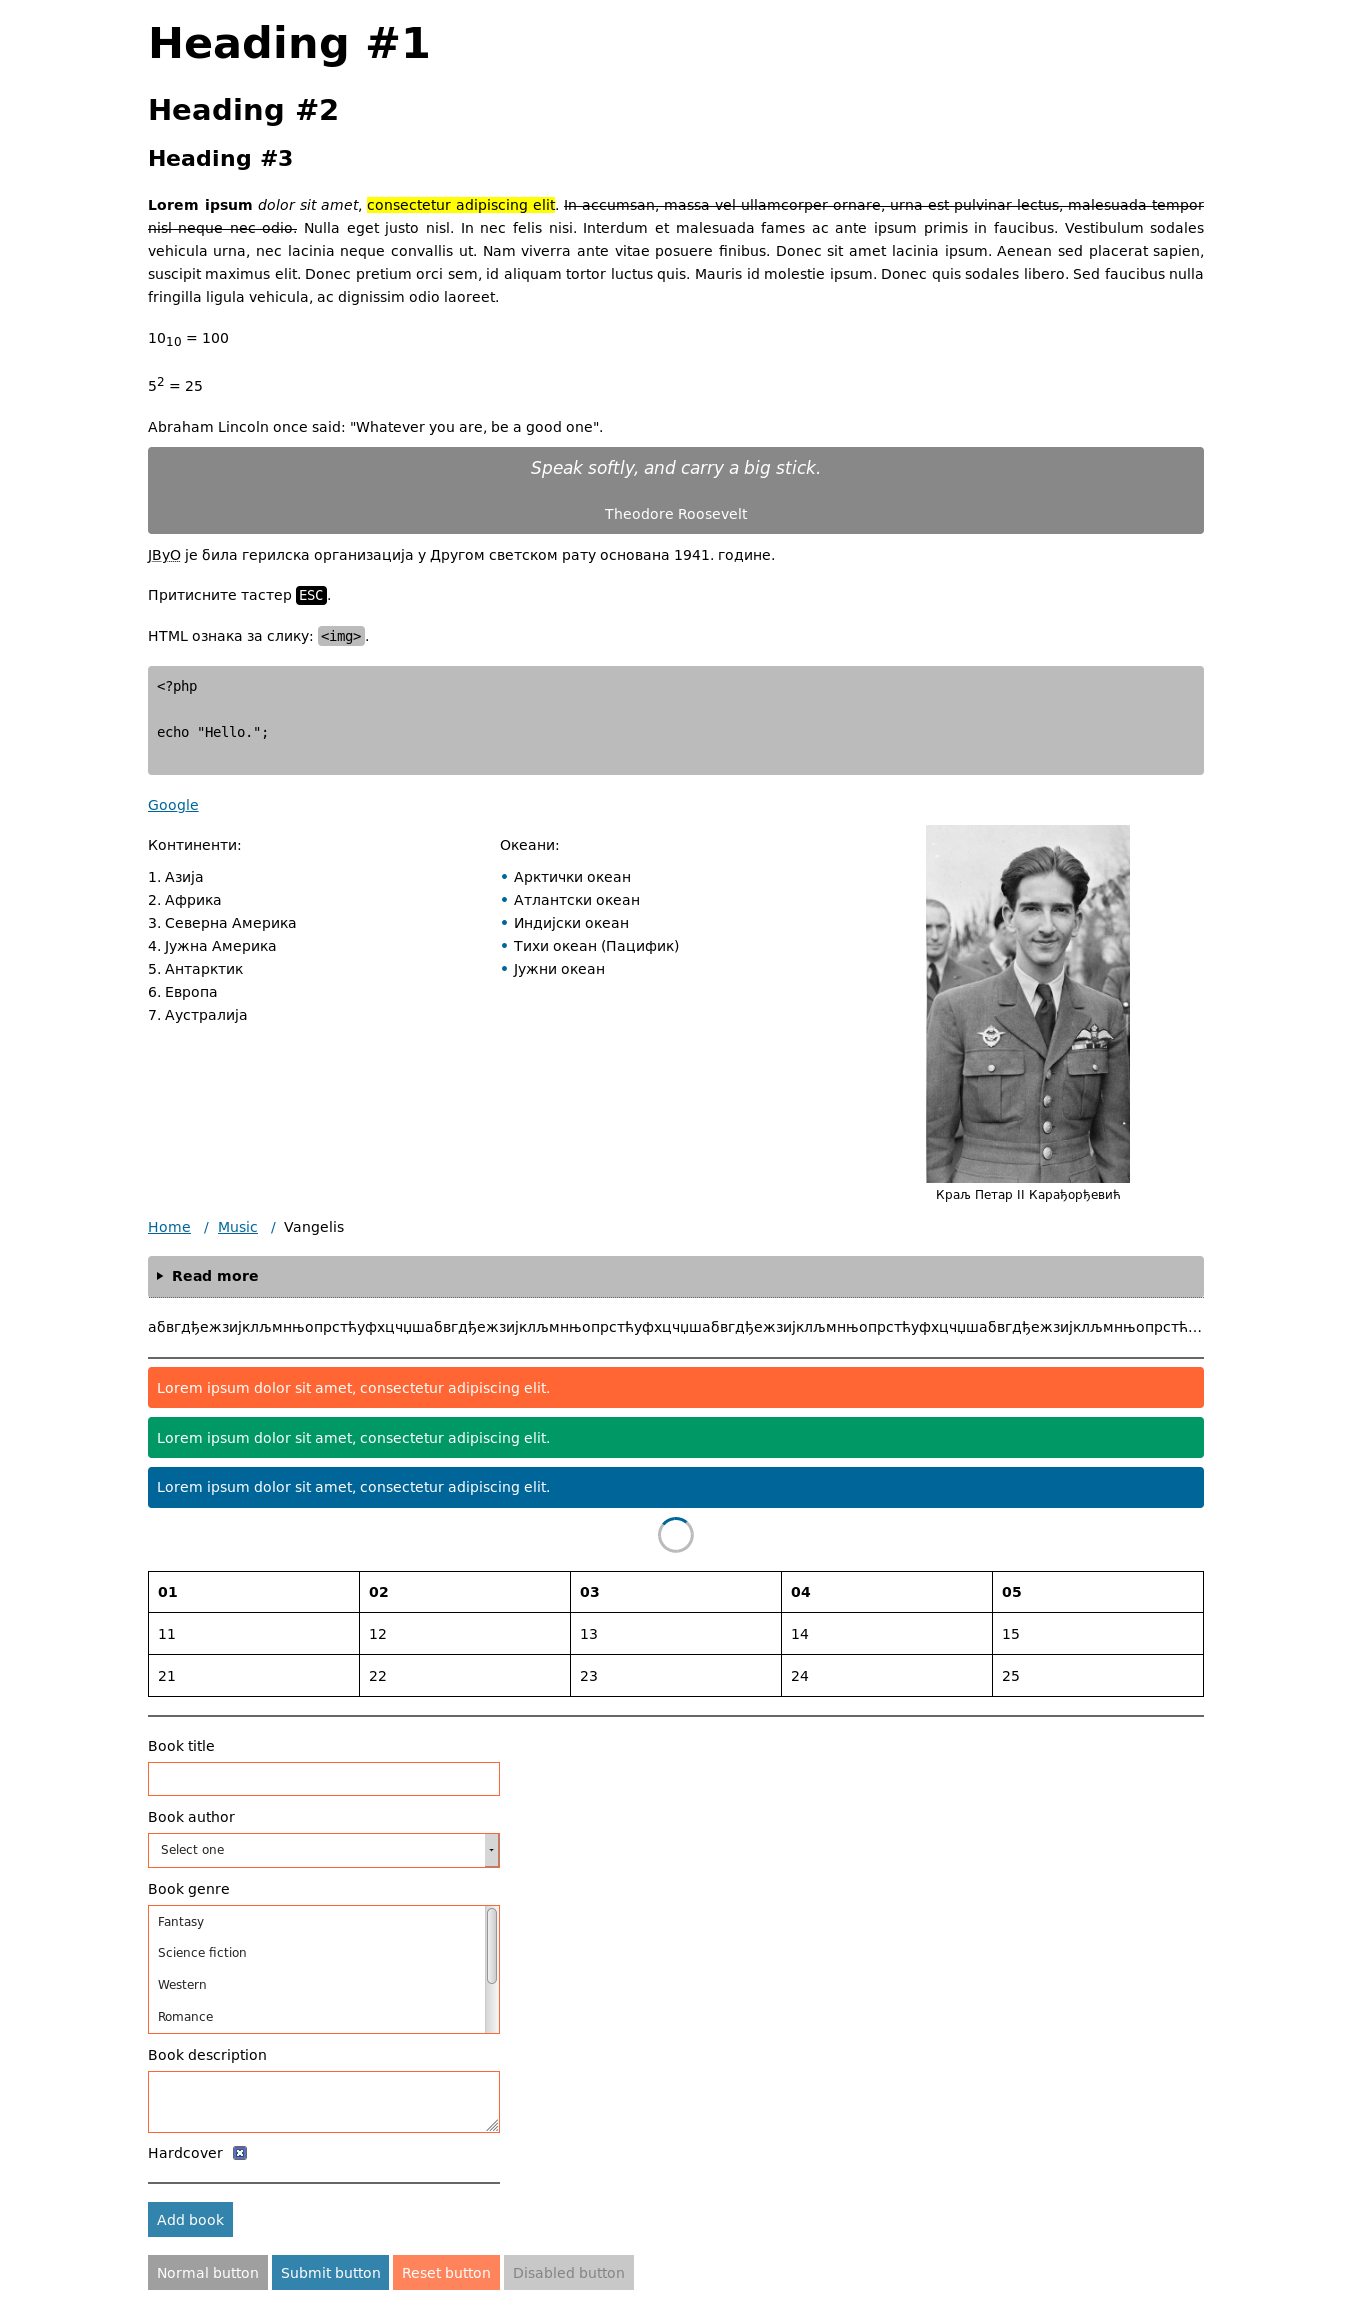
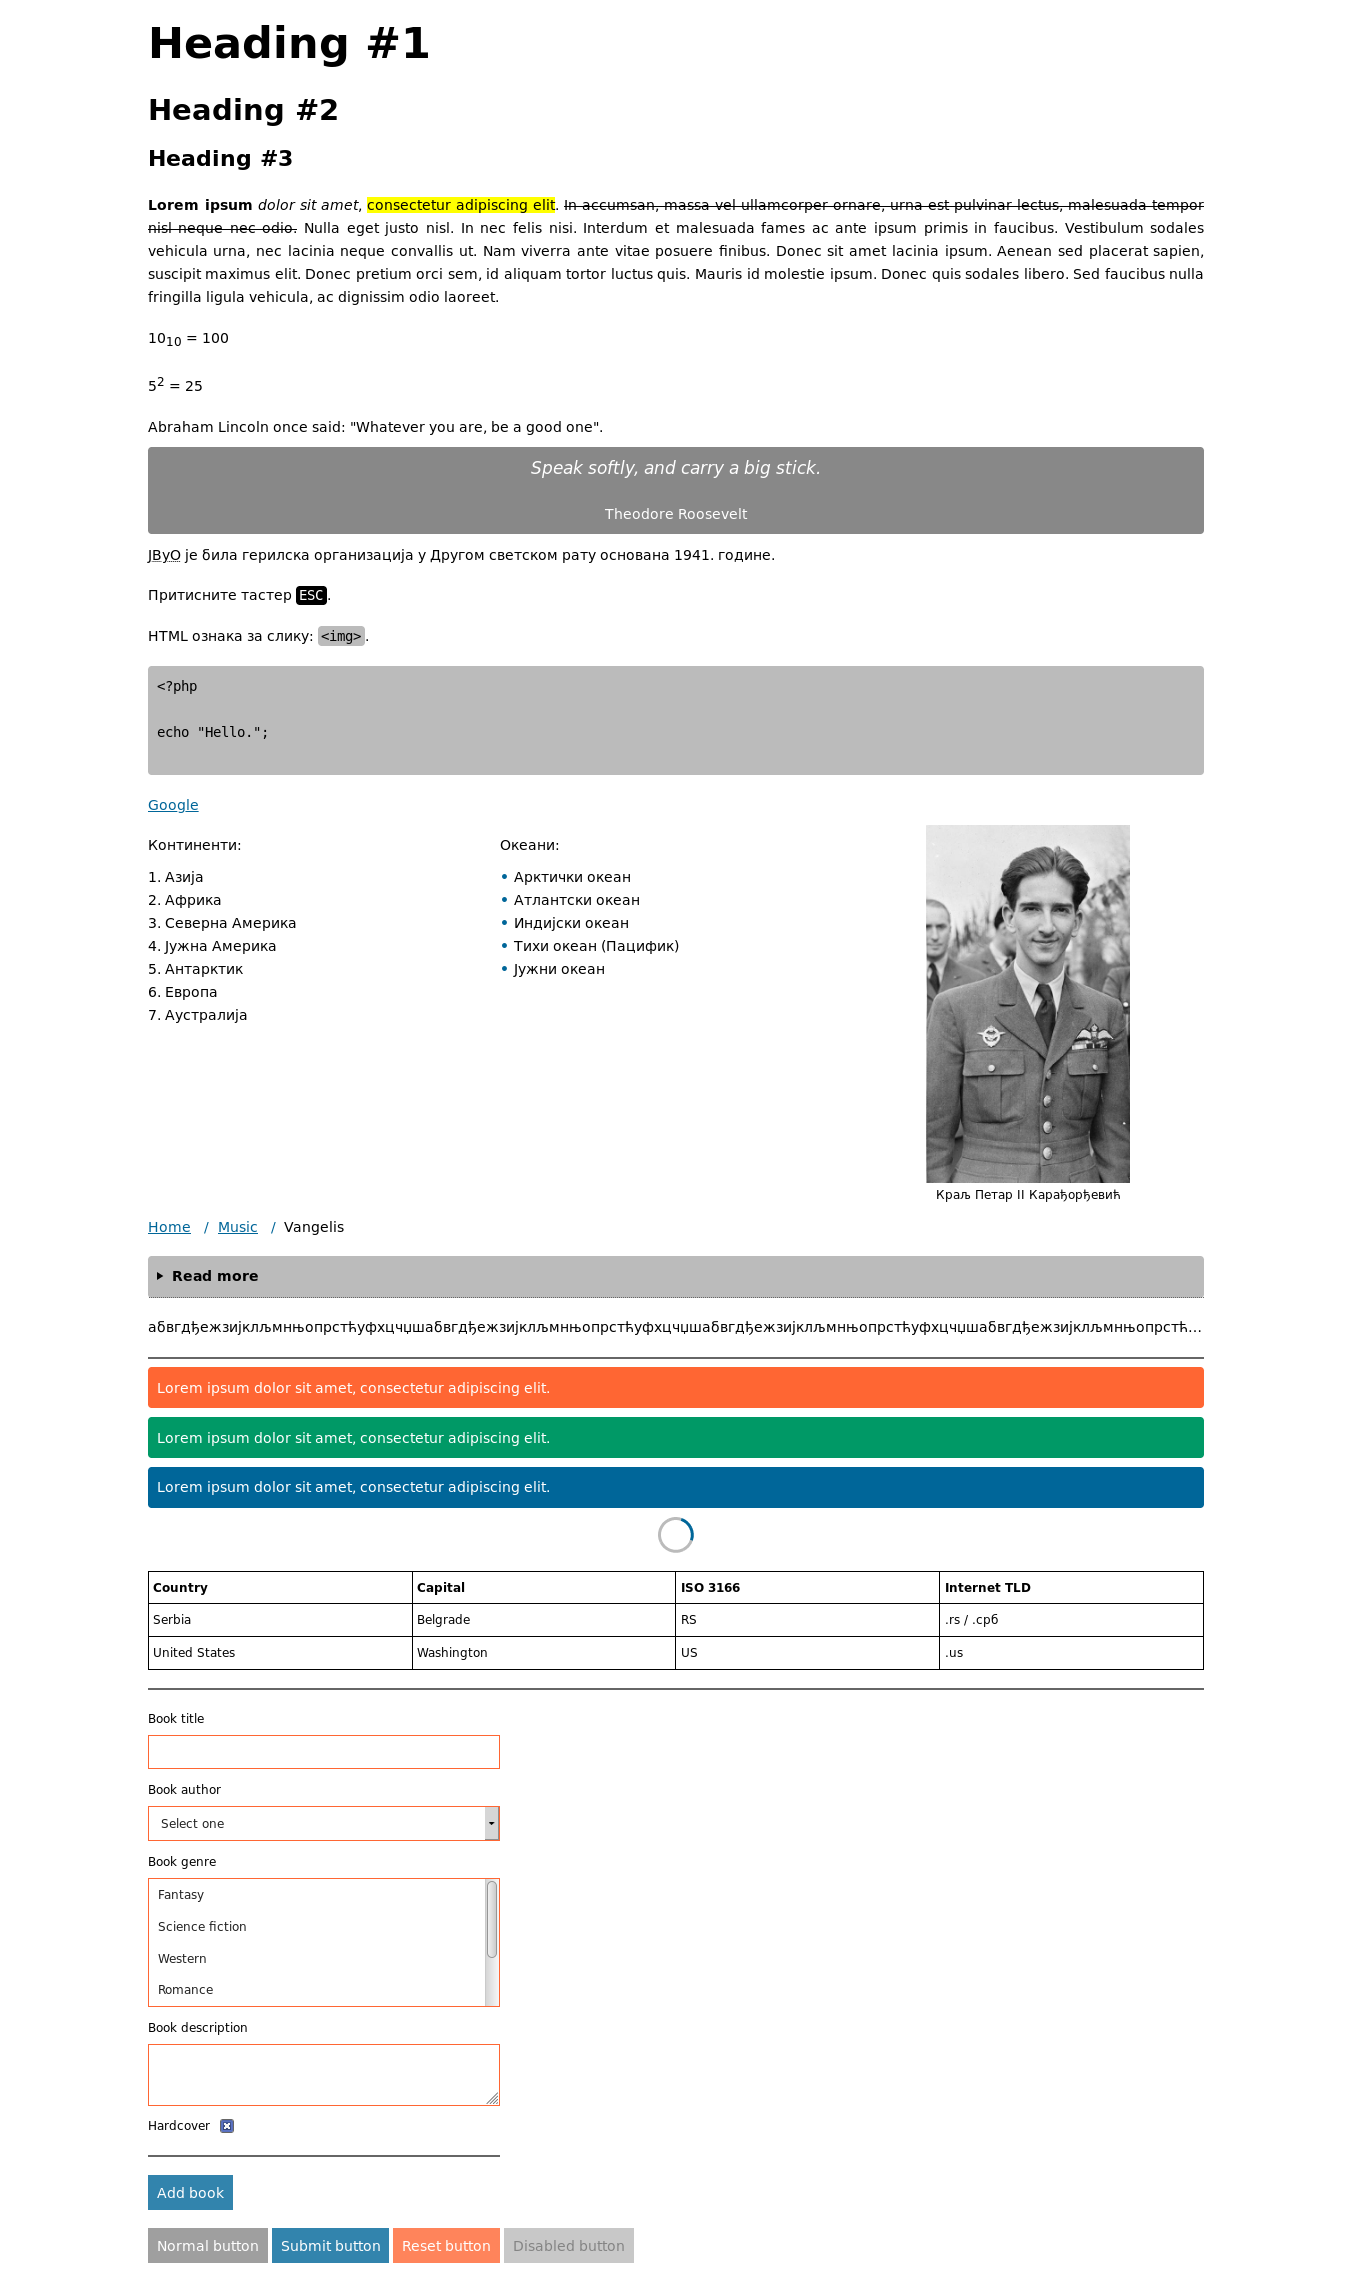
Set minimal table width

diff --git a/css/minimalizr.css b/css/minimalizr.css
@@ -1,1 +1,1 @@
-*{box-sizing:border-box;margin:0;outline:none;padding:0}*:focus{outline:1px dotted #888;outline-offset:3px}html{scroll-behavior:smooth}body{font-family:sans-serif;font-size:1rem;line-height:1.6rem;word-wrap:break-word}::selection{background-color:#069;color:#fff}button{font-size:1rem}.container{width:1200px;max-width:100%;margin:0 auto;padding:0 10px}.container-fluid{width:100%}.row{display:grid;grid-template-columns:repeat(12, 1fr)}.col-md-1{grid-column:span 1}.col-md-2{grid-column:span 2}.col-md-3{grid-column:span 3}.col-md-4{grid-column:span 4}.col-md-5{grid-column:span 5}.col-md-6{grid-column:span 6}.col-md-7{grid-column:span 7}.col-md-8{grid-column:span 8}.col-md-9{grid-column:span 9}.col-md-10{grid-column:span 10}.col-md-11{grid-column:span 11}.col-md-12{grid-column:span 12}@media screen and (max-width: 768px){.col-sm-1{grid-column:span 1}.col-sm-2{grid-column:span 2}.col-sm-3{grid-column:span 3}.col-sm-4{grid-column:span 4}.col-sm-5{grid-column:span 5}.col-sm-6{grid-column:span 6}.col-sm-7{grid-column:span 7}.col-sm-8{grid-column:span 8}.col-sm-9{grid-column:span 9}.col-sm-10{grid-column:span 10}.col-sm-11{grid-column:span 11}.col-sm-12{grid-column:span 12}}.text-white{color:#fff}.text-red{color:#f63}.text-green{color:#096}.text-blue{color:#069}.text-cyan{color:#099}.text-yellow{color:#ff0}.text-magenta{color:#9f4576}.text-gray{color:#888}.text-light-gray{color:#bbb}.text-dark-gray{color:#666}.text-black{color:#000}.bg-white{background-color:#fff}.bg-red{background-color:#f63}.bg-green{background-color:#096}.bg-blue{background-color:#069}.bg-cyan{background-color:#099}.bg-yellow{background-color:#ff0}.bg-magenta{background-color:#9f4576}.bg-gray{background-color:#888}.bg-light-gray{background-color:#bbb}.bg-dark-gray{background-color:#666}.bg-black{background-color:#000}.hide{display:none}.bordered{border:1px solid #888}.padded{padding:10px}.rounded{border-radius:4px}.rounded-circle{border-radius:50%}.underline{text-decoration:underline}.larger{font-size:larger}.smaller{font-size:smaller}.text-left{text-align:left}.text-center{text-align:center}.text-right{text-align:right}.text-justify{text-align:justify}.centered{display:flex;justify-content:center;align-items:center}.truncate{white-space:nowrap;overflow:hidden;text-overflow:ellipsis}@media screen and (max-width: 768px){.hide-on-sm{display:none}}h1,h2,h3{margin:10px 0}h1{font-size:3rem;line-height:4.8rem}h2{font-size:2rem;line-height:3.2rem}h3{font-size:1.5rem;line-height:2.4rem}p{padding:10px 0;text-align:justify}a{color:#069;text-decoration:underline}a:active,a:visited{color:#9f4576}a:hover{text-decoration:none}a:not([href]){color:#000;text-decoration:none}strong{font-weight:bold}em{font-style:italic}mark{background-color:#ff0}del{text-decoration:line-through}sub{font-size:smaller;vertical-align:sub}sup{font-size:smaller;vertical-align:super}q::before{content:'"'}q::after{content:'"'}blockquote{padding:10px 0;font-style:italic}blockquote footer{font-style:normal}hr{border:2px solid #666;margin:10px 0}cite{font-style:italic}abbr[title]{text-decoration:underline dotted}pre.code,code,kbd{padding:2px 4px;border-radius:4px;font-family:monospace}kbd{background-color:#000;color:#fff}code{background-color:#bbb}pre.code{background-color:#bbb;margin:10px 0;overflow-x:auto;padding:10px;user-select:all;tab-size:2;-moz-tab-size:2}ul,ol{list-style-position:inside}img{max-width:100%;vertical-align:middle}figure{display:inline-block}figure figcaption{font-size:smaller;text-align:center}footer{font-size:smaller}details{background-color:#bbb;border-radius:4px;margin:10px 0}details summary{border-bottom:1px dotted #666;cursor:pointer;font-weight:bold;padding:10px;user-select:none}details div{margin-left:10px;padding:10px}.table-responsive{overflow-x:auto}table{border-collapse:collapse;margin:10px 0;table-layout:fixed;width:100%}table,table th,table td{border:1px solid #000}table th{font-weight:bold}table th,table td{padding:10px;text-align:left}form{display:grid;grid-template-columns:1fr;grid-gap:10px;margin:10px 0}form>label{display:flex;flex-direction:column;align-items:flex-start}form>label span{user-select:none;margin-bottom:5px}form>label input,form>label textarea,form>label select,form>label button{font-size:smaller}form>label input,form>label textarea,form>label select{background-color:#fff;border:1px solid #bbb;font-family:sans-serif;padding:10px;width:100%}form>label input:focus,form>label textarea:focus,form>label select:focus{border-color:#666;outline:none}form>label input:disabled,form>label textarea:disabled,form>label select:disabled{background-color:#bbb}form>label input:invalid,form>label textarea:invalid,form>label select:invalid{border-color:#f63}form>label select[multiple]{max-height:200px;padding:0}form>label select[multiple] option{padding:10px}form>label textarea{min-height:50px;max-height:200px;resize:vertical}form .form-checkbox{display:flex;flex-direction:row;align-items:center;flex-wrap:wrap;width:fit-content;width:-moz-fit-content}form .form-checkbox label{cursor:pointer;display:flex;align-items:center;user-select:none}form .form-checkbox input[type=checkbox]{cursor:pointer;align-self:center;width:auto;margin-left:10px}form button{width:fit-content;width:-moz-fit-content}button{background-color:#888;border:0;color:#fff;cursor:pointer;padding:10px;user-select:none;opacity:.8;transition-property:opacity;transition-duration:.3s;transition-timing-function:ease-in-out}button[type=submit]{background-color:#069;color:#fff}button[type=reset]{background-color:#f63;color:#fff}button[disabled]{background-color:#bbb;color:#666;cursor:not-allowed}button:hover{opacity:1}button:active{transform:translateY(1px);outline:none}ul.breadcrumbs{display:flex;list-style-type:none;user-select:none}ul.breadcrumbs li{padding:10px 0}ul.breadcrumbs li:not(:last-child)::after{content:" / ";color:#069;display:inline-block;margin:0 10px}ul.breadcrumbs li:last-child{color:inherit;text-decoration:none}@keyframes spin{from{transform:rotate(0deg)}to{transform:rotate(360deg)}}.spinner{border:4px solid #bbb;border-top:4px solid #069;border-radius:50%;height:40px;width:40px;animation-name:spin;animation-duration:1s;animation-timing-function:linear;animation-iteration-count:infinite;margin:10px auto}@keyframes fade-in{from{opacity:0}to{opacity:1}}.fade-in{animation-name:fade-in;animation-duration:1s;animation-timing-function:ease-out;animation-iteration-count:1}.list-bulleted{list-style-type:none}.list-bulleted li:before{content:"•";color:#069;display:inline-block;font-weight:bold;width:1em}/*# sourceMappingURL=minimalizr.css.map */
+*{box-sizing:border-box;margin:0;outline:none;padding:0}*:focus{outline:1px dotted #888;outline-offset:3px}html{scroll-behavior:smooth}body{font-family:sans-serif;font-size:1rem;line-height:1.6rem;word-wrap:break-word}::selection{background-color:#069;color:#fff}button{font-size:1rem}.container{width:1200px;max-width:100%;margin:0 auto;padding:0 10px}.container-fluid{width:100%}.row{display:grid;grid-template-columns:repeat(12, 1fr)}.col-md-1{grid-column:span 1}.col-md-2{grid-column:span 2}.col-md-3{grid-column:span 3}.col-md-4{grid-column:span 4}.col-md-5{grid-column:span 5}.col-md-6{grid-column:span 6}.col-md-7{grid-column:span 7}.col-md-8{grid-column:span 8}.col-md-9{grid-column:span 9}.col-md-10{grid-column:span 10}.col-md-11{grid-column:span 11}.col-md-12{grid-column:span 12}.col-pull-left{grid-column-start:1}.col-pull-right{grid-column-end:12}@media screen and (max-width: 768px){.col-sm-1{grid-column:span 1}.col-sm-2{grid-column:span 2}.col-sm-3{grid-column:span 3}.col-sm-4{grid-column:span 4}.col-sm-5{grid-column:span 5}.col-sm-6{grid-column:span 6}.col-sm-7{grid-column:span 7}.col-sm-8{grid-column:span 8}.col-sm-9{grid-column:span 9}.col-sm-10{grid-column:span 10}.col-sm-11{grid-column:span 11}.col-sm-12{grid-column:span 12}}.text-white{color:#fff}.text-red{color:#f63}.text-green{color:#096}.text-blue{color:#069}.text-cyan{color:#099}.text-yellow{color:#ff0}.text-magenta{color:#9f4576}.text-gray{color:#888}.text-light-gray{color:#bbb}.text-dark-gray{color:#666}.text-black{color:#000}.bg-white{background-color:#fff}.bg-red{background-color:#f63}.bg-green{background-color:#096}.bg-blue{background-color:#069}.bg-cyan{background-color:#099}.bg-yellow{background-color:#ff0}.bg-magenta{background-color:#9f4576}.bg-gray{background-color:#888}.bg-light-gray{background-color:#bbb}.bg-dark-gray{background-color:#666}.bg-black{background-color:#000}.hide{display:none}.bordered{border:1px solid #888}.padded{padding:10px}.rounded{border-radius:4px}.rounded-circle{border-radius:50%}.underline{text-decoration:underline}.larger{font-size:larger}.smaller{font-size:smaller}.text-left{text-align:left}.text-center{text-align:center}.text-right{text-align:right}.text-justify{text-align:justify}.centered{display:flex;justify-content:center;align-items:center}.truncate{white-space:nowrap;overflow:hidden;text-overflow:ellipsis}@media screen and (max-width: 768px){.hide-on-sm{display:none}}h1,h2,h3{margin:10px 0}h1{font-size:3rem;line-height:4.8rem}h2{font-size:2rem;line-height:3.2rem}h3{font-size:1.5rem;line-height:2.4rem}p{padding:10px 0;text-align:justify}a{color:#069;text-decoration:underline}a:active,a:visited{color:#9f4576}a:hover{text-decoration:none}a:not([href]){color:#000;text-decoration:none}strong{font-weight:bold}em{font-style:italic}mark{background-color:#ff0}del{text-decoration:line-through}sub{font-size:smaller;vertical-align:sub}sup{font-size:smaller;vertical-align:super}q::before{content:'"'}q::after{content:'"'}blockquote{padding:10px 0;font-style:italic}blockquote footer{font-style:normal}hr{border:2px solid #666;margin:10px 0}cite{font-style:italic}abbr[title]{text-decoration:underline dotted}pre.code,code,kbd{padding:2px 4px;border-radius:4px;font-family:monospace}kbd{background-color:#000;color:#fff}code{background-color:#bbb}pre.code{background-color:#bbb;margin:10px 0;overflow-x:auto;padding:10px;user-select:all;tab-size:2;-moz-tab-size:2}ul,ol{list-style-position:inside}img{max-width:100%;vertical-align:middle}figure{display:inline-block}figure figcaption{font-size:smaller;text-align:center}footer{font-size:smaller}details{background-color:#bbb;border-radius:4px;margin:10px 0}details summary{border-bottom:1px dotted #666;cursor:pointer;font-weight:bold;padding:10px;user-select:none}details div{margin-left:10px;padding:10px}.table-responsive{overflow-x:auto}table{font-size:smaller;border-collapse:collapse;margin:10px 0;table-layout:fixed;width:100%;min-width:500px}table,table th,table td{border:1px solid #000}table th{font-weight:bold}table th,table td{padding:5px;text-align:left;white-space:nowrap;overflow-x:hidden;text-overflow:ellipsis}form{display:grid;grid-template-columns:1fr;grid-gap:10px;margin:10px 0}form>label{display:flex;flex-direction:column;align-items:flex-start}form>label span{user-select:none;margin-bottom:5px;font-size:smaller}form>label input,form>label textarea,form>label select,form>label button{font-size:smaller}form>label input,form>label textarea,form>label select{background-color:#fff;border:1px solid #bbb;font-family:sans-serif;padding:10px;width:100%}form>label input:disabled,form>label textarea:disabled,form>label select:disabled{background-color:#bbb}form>label input:invalid,form>label textarea:invalid,form>label select:invalid{border-color:#f63}form>label input:focus,form>label textarea:focus,form>label select:focus{border-color:#666;outline:none}form>label select[multiple]{max-height:200px;padding:0}form>label select[multiple] option{padding:10px}form>label textarea{min-height:50px;max-height:200px;resize:vertical}form .form-checkbox{display:flex;flex-direction:row;align-items:center;flex-wrap:wrap;width:fit-content;width:-moz-fit-content}form .form-checkbox label{cursor:pointer;display:flex;align-items:center;user-select:none;font-size:smaller}form .form-checkbox input[type=checkbox]{cursor:pointer;align-self:center;width:auto;margin-left:10px}form button{width:fit-content;width:-moz-fit-content}button{background-color:#888;border:0;color:#fff;cursor:pointer;padding:10px;user-select:none;opacity:.8;transition-property:opacity;transition-duration:.3s;transition-timing-function:ease-in-out}button[type=submit]{background-color:#069;color:#fff}button[type=reset]{background-color:#f63;color:#fff}button[disabled]{background-color:#bbb;color:#666;cursor:not-allowed}button:hover{opacity:1}button:active{transform:translateY(1px);outline:none}ul.breadcrumbs{display:flex;list-style-type:none;user-select:none}ul.breadcrumbs li{padding:10px 0}ul.breadcrumbs li:not(:last-child)::after{content:" / ";color:#069;display:inline-block;margin:0 10px}ul.breadcrumbs li:last-child{color:inherit;text-decoration:none}@keyframes spin{from{transform:rotate(0deg)}to{transform:rotate(360deg)}}.spinner{border:4px solid #bbb;border-top:4px solid #069;border-radius:50%;height:40px;width:40px;animation-name:spin;animation-duration:1s;animation-timing-function:linear;animation-iteration-count:infinite;margin:10px auto}@keyframes fade-in{from{opacity:0}to{opacity:1}}.fade-in{animation-name:fade-in;animation-duration:1s;animation-timing-function:ease-out;animation-iteration-count:1}.list-bulleted{list-style-type:none}.list-bulleted li:before{content:"•";color:#069;display:inline-block;font-weight:bold;width:1em}/*# sourceMappingURL=minimalizr.css.map */

diff --git a/index.html b/index.html
@@ -110,27 +110,24 @@ echo "Hello.";
 			<table>
 				<thead>
 					<tr>
-						<th>01</th>
-						<th>02</th>
-						<th>03</th>
-						<th>04</th>
-						<th>05</th>
+						<th>Country</th>
+						<th>Capital</th>
+						<th>ISO 3166</th>
+						<th>Internet TLD</th>
 					</tr>
 				</thead>
 				<tbody>
 					<tr>
-						<td>11</td>
-						<td>12</td>
-						<td>13</td>
-						<td>14</td>
-						<td>15</td>
+						<td>Serbia</td>
+						<td>Belgrade</td>
+						<td>RS</td>
+						<td>.rs / .срб</td>
 					</tr>
 					<tr>
-						<td>21</td>
-						<td>22</td>
-						<td>23</td>
-						<td>24</td>
-						<td>25</td>
+						<td>United States</td>
+						<td>Washington</td>
+						<td>US</td>
+						<td>.us</td>
 					</tr>
 				</tbody>
 			</table>

diff --git a/sass/components/_form.scss b/sass/components/_form.scss
@@ -14,6 +14,7 @@ form {
 		span {
 			user-select: none;
 			margin-bottom: $spacing / 2;
+			font-size: smaller;
 		}
 
 		input, textarea, select, button {
@@ -27,17 +28,17 @@ form {
 			padding: $form-padding;
 			width: 100%;
 
-			&:focus {
-				border-color: map-get($colors, 'dark-gray');
-				outline: none;
-			}
-
 			&:disabled {
 				background-color: map-get($colors, 'light-gray');
 			}
 
 			&:invalid {
 				border-color: map-get($colors, 'red');
+			}
+
+			&:focus {
+				border-color: map-get($colors, 'dark-gray');
+				outline: none;
 			}
 		}
 
@@ -70,6 +71,7 @@ form {
 			display: flex;
 			align-items: center;
 			user-select: none;
+			font-size: smaller;
 		}
 
 		input[type="checkbox"] {

diff --git a/sass/components/_tables.scss b/sass/components/_tables.scss
@@ -3,10 +3,12 @@
 }
 
 table {
+	font-size: smaller;
 	border-collapse: collapse;
 	margin: $spacing 0;
 	table-layout: fixed;
 	width: 100%;
+	min-width: 500px;
 
 	&, th, td {
 		border: 1px solid map-get($colors, 'black');
@@ -17,7 +19,10 @@ table {
 	}
 
 	th, td {
-		padding: $spacing;
+		padding: 5px;
 		text-align: left;
+		white-space: nowrap;
+		overflow-x: hidden;
+		text-overflow: ellipsis;
 	}
 }

diff --git a/sass/_layout.scss b/sass/_layout.scss
@@ -26,6 +26,10 @@ $columns: 12;
 
 @include columns-generator($columns);
 
+.col-pull-left { grid-column-start: 1; }
+
+.col-pull-right { grid-column-end: $columns; }
+
 @media screen and (max-width: $breakpoint-sm) {
 	@include columns-generator($columns, 'sm');
 }
